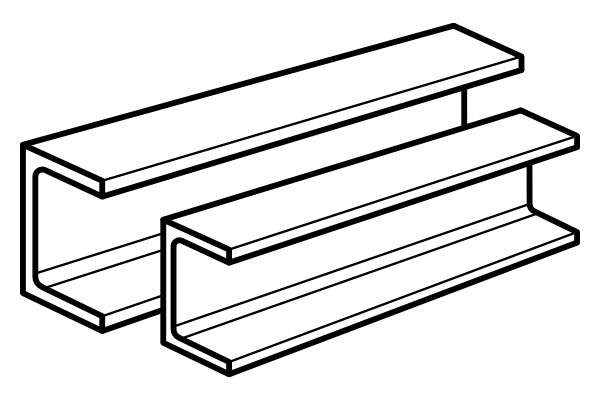
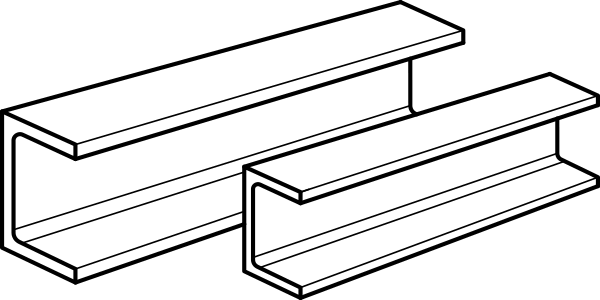
Каталог. Заменить картинки категорий и услуг Fixes #31

Changed region(s): [[0.0, 0.03, 1.0, 1.0], [0.57, 0.0, 0.69, 0.06]]

diff --git a/components/catalog/LeftMenu.vue b/components/catalog/LeftMenu.vue
@@ -1,5 +1,5 @@
 <script lang="ts" setup>
-import type { IconMap, MenuItem } from 'types'
+import type { MenuItem } from 'types'
 const props = defineProps<{
   menu?: MenuItem[] | null
 }>()
@@ -34,20 +34,6 @@ function findParentSlug(items: MenuItem[] | null | undefined, slug: string): str
 }
 
 const parentSlug = findParentSlug(props.menu, slug)
-
-const icons: IconMap = {
-  'truby': 'truby',
-  'listovoi-prokat': 'listovoy-prokat',
-  'sortovoi-prokat': 'sortovoy-prokat',
-  'armatura-katanka': 'armatura-riflenaya',
-  'balka-dvutavr-stalnaya': 'balka-dvutavr',
-  'polosa-kvadrat': 'polosa',
-  'ugolok': 'ugolok',
-  'shveller-stalnoi': 'shveller',
-  'truba-kruglaya': 'truby-kruglie',
-  'truby-profilnie': 'truby-profilnie',
-
-}
 </script>
 
 <template>
@@ -55,9 +41,9 @@ const icons: IconMap = {
     <template v-for="item in menu" :key="item.id">
       <NuxtLink
         :to="`/catalog/${item.slug}`"
-        class="flex items-center gap-2 px-4 py-2 text-gray-700"
+        class="flex items-center gap-2 px-4 py-2 text-gray-700 hover:bg-green-100 hover:text-green-700"
       >
-        <NuxtImg v-if="item.slug in icons" :src="`/img/categories/${icons[item.slug]}.png`" width="60" height="40" loading="lazy" />
+        <NuxtImg v-show="item.image" :src="`/soptorg/media/${item.image}`" width="60" height="30" />
         <span class="text-md font-medium">{{ item.name }}</span>
       </NuxtLink>
 
@@ -65,17 +51,20 @@ const icons: IconMap = {
         <template v-for="subitem in item.submenu" :key="subitem.id">
           <details class="group [&_summary::-webkit-details-marker]:hidden" :open="subitem.slug === parentSlug || subitem.slug === slug">
             <summary
-              class="flex cursor-pointer items-center justify-between rounded-lg px-4 py-2 text-gray-500 hover:bg-gray-100 hover:text-gray-700"
+              class="flex cursor-pointer items-center justify-between rounded-lg px-4 py-2 text-gray-500 hover:bg-green-100 hover:text-green-700"
+              :class="{ 'bg-green-100 text-green-700': slug === subitem.slug }"
             >
-              <div class="flex items-center gap-2">
-                <!-- <Icon name="TrubiIcon" class="h-10 w-10 text-green-700" /> -->
-                <NuxtImg v-if="subitem.slug in icons" :src="`/img/categories/${icons[subitem.slug]}.png`" width="36" height="24" loading="lazy" />
-                <NuxtLink :to="`/catalog/${subitem.slug}`">
-                  <span class="text-sm font-medium">{{ subitem.name }}</span>
-                </NuxtLink>
-              </div>
+              <!-- <div class="flex items-center gap-2"> -->
+              <NuxtLink
+                :to="`/catalog/${subitem.slug}`"
+                class="flex items-center gap-2 px-4 py-2 text-gray-700 hover:bg-green-100 hover:text-green-700"
+              >
+                <NuxtImg v-show="subitem.image" :src="`/soptorg/media/${subitem.image}`" width="40" height="20" />
+                <span class="text-sm font-medium">{{ subitem.name }}</span>
+              </NuxtLink>
+              <!-- </div> -->
 
-              <span class="shrink-0 transition duration-300 group-open:-rotate-180">
+              <span v-show="subitem.submenu && subitem.submenu.length" class="shrink-0 transition duration-300 group-open:-rotate-180">
                 <Icon name="mdi:chevron-down" class="h-5 w-5" />
               </span>
             </summary>
@@ -84,10 +73,10 @@ const icons: IconMap = {
               <template v-for="lv3 in subitem.submenu" :key="lv3.id">
                 <NuxtLink
                   :to="`/catalog/${lv3.slug}`"
-                  active-class="underline"
-                  class="flex items-center gap-2 rounded-lg px-4 py-2 text-gray-500 hover:bg-gray-100 hover:text-gray-700"
+                  active-class="bg-green-100 text-green-700"
+                  class="flex items-center gap-2 rounded-lg px-4 py-2 text-gray-500 hover:bg-green-100 hover:text-green-700"
                 >
-                  <Icon name="mdi:circle" class="h-2 w-2" />
+                  <Icon name="mdi:circle" class="h-1.5 w-1.5 min-w-[0.375rem]" />
                   <span class="text-sm font-medium"> {{ lv3.name }} </span>
                 </NuxtLink>
               </template>

diff --git a/components/catalog/Subcategories.vue b/components/catalog/Subcategories.vue
@@ -1,21 +1,8 @@
 <script lang="ts" setup>
-import type { Category, IconMap } from 'types'
+import type { Category } from 'types'
 defineProps<{
   subcatList?: Category[] | []
 }>()
-const icons: IconMap = {
-  'truby': 'truby',
-  'listovoi-prokat': 'listovoy-prokat',
-  'sortovoi-prokat': 'sortovoy-prokat',
-  'armatura-katanka': 'armatura-riflenaya',
-  'balka-dvutavr-stalnaya': 'balka-dvutavr',
-  'polosa-kvadrat': 'polosa',
-  'ugolok': 'ugolok',
-  'shveller-stalnoi': 'shveller',
-  'truba-kruglaya': 'truby-kruglie',
-  'truby-profilnie': 'truby-profilnie',
-
-}
 </script>
 
 <template>
@@ -28,9 +15,11 @@ const icons: IconMap = {
               class="border border-gray-200 h-full flex flex-col items-center justify-center transition-all ease-in-out duration-300 relative top-0 bg-gray-100 rounded-md px-4 py-4 group hover:border-gray-300 hover:-top-0.5"
               :to="`/catalog/${cat.slug}`"
             >
-              <NuxtImg v-if="cat.slug in icons" :src="`/img/categories/${icons[cat.slug]}.png`" width="120" height="80" loading="lazy" />
-              <!-- <i class="transition-all ease-in-out duration-300 bx bx-car text-2xl text-slate-600 inline-block w-10 h-10 leading-10 rounded-full relative top-0 group-hover:bg-amber-200 group-hover:-top-1" /> -->
-              <h3 class="transition-all ease-in-out duration-300 text-md text-gray-600 group-hover:text-gray-800 text-center">
+              <NuxtImg
+                v-show="cat.image" :src="`/soptorg/media/${cat.image}`" width="120" height="60" loading="lazy"
+                class="transition-all ease-in-out duration-300 inline-block relative top-0 group-hover:-top-0.5"
+              />
+              <h3 class="transition-all ease-in-out duration-300 text-md text-gray-600 group-hover:text-gray-800 text-center mt-3">
                 {{ cat.name }}
               </h3>
               <!-- <span class="transition-all ease-in-out duration-300 text-md text-gray-400 group-hover:text-gray-600">2,041</span> -->

diff --git a/nuxt.config.ts b/nuxt.config.ts
@@ -13,7 +13,7 @@ export default defineNuxtConfig({
   runtimeConfig: {
     // apiSecret: '123',
     public: {
-      siteUrl: `https://${process.env.DOMAIN}` || 'https://example.com',
+      siteUrl: process.env.NODE_ENV === 'production' ? `https://${process.env.DOMAIN}` : `http://${process.env.DOMAIN}`,
       apiUrl: process.env.API_URL || 'http://localhost:8000/api',
       siteName: process.env.SITE_NAME || 'Название сайта',
       // titleSeparator: '|',
@@ -63,9 +63,13 @@ export default defineNuxtConfig({
   // headlessui: {
   //   prefix: "",
   // },
-  // image: {
-  //   dir: 'assets/img',
-  // },
+  image: {
+    // dir: 'assets/img',
+    domains: [process.env.NODE_ENV === 'production' ? `${process.env.DOMAIN}` : '127.0.0.1:8000'],
+    alias: {
+      soptorg: process.env.NODE_ENV === 'production' ? `https://${process.env.DOMAIN}` : 'http://127.0.0.1:8000',
+    },
+  },
   googleFonts: {
     families: {
       Nunito: [100, 200, 300, 400, 500, 600, 700, 800, 900],

diff --git a/components/home/Catalog.vue b/components/home/Catalog.vue
@@ -37,7 +37,7 @@
           >
             <NuxtLink to="/catalog/balki-dvutavr" class="hover:underline">
               <NuxtPicture
-                src="/img/categories/balka-dvutavr.png"
+                src="/img/categories/balka.png"
                 sizes="sm:200px md:200px lg:200px"
                 :img-attrs="{ class: 'object-cover' }"
               />
@@ -55,7 +55,7 @@
           <div class="p-10 flex flex-col items-center text-center group md:lg:xl:border-b hover:bg-slate-50 cursor-pointer">
             <NuxtLink to="/catalog/vgp-elektrosvarnye-truby" class="hover:underline">
               <NuxtPicture
-                src="/img/categories/truby-kruglie.png"
+                src="/img/categories/trubnij-prokat.png"
                 sizes="sm:200px md:200px lg:200px"
                 :img-attrs="{ class: 'object-cover' }"
               />

diff --git a/types/index.ts b/types/index.ts
@@ -3,6 +3,7 @@ interface MenuItem {
   name: string
   depth: number
   slug: string
+  image: string | null
   submenu: MenuItem[] | []
 }
 interface IBreadcrumb {
@@ -22,6 +23,7 @@ interface Category {
   id: number
   name: string
   slug: string
+  image: string | null
   // parents: string[]
   description: string
 }
